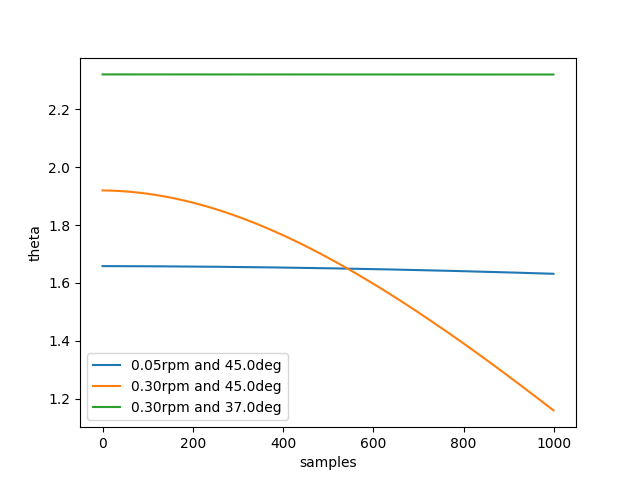
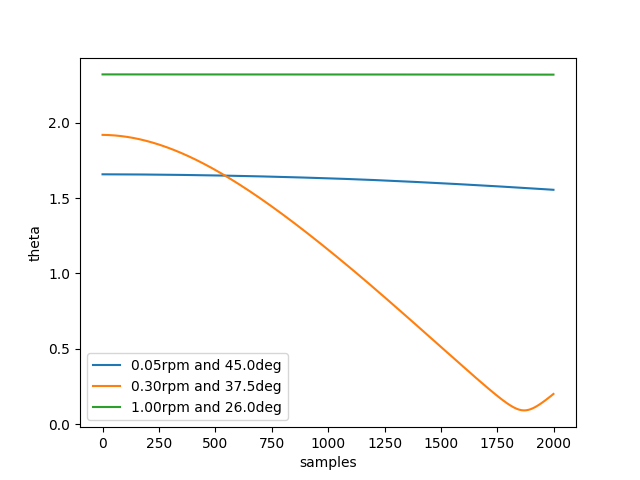
minor changes

diff --git a/validation/check_pointings.py b/validation/check_pointings.py
@@ -34,10 +34,11 @@ pnt = hdul[1].data
 
 theta_100_260 = pnt['THETA']
 
+nsamp = 2000
 
-plt.plot(theta_005_450[:1000], label='0.05rpm and 45.0deg')
-plt.plot(theta_030_375[:1000], label='0.30rpm and 45.0deg')
-plt.plot(theta_100_260[:1000], label='0.30rpm and 37.0deg')
+plt.plot(theta_005_450[:nsamp], label='0.05rpm and 45.0deg')
+plt.plot(theta_030_375[:nsamp], label='0.30rpm and 37.5deg')
+plt.plot(theta_100_260[:nsamp], label='1.00rpm and 26.0deg')
 plt.legend()
 plt.xlabel('samples')
 plt.ylabel('theta')
